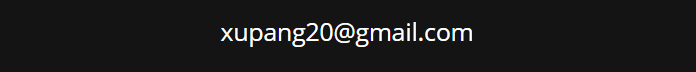
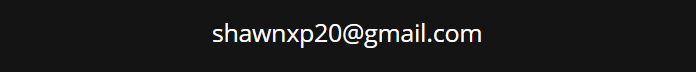
Add files via upload

Changed region(s): [[0.3017, 0.3056, 0.694, 0.6667]]

diff --git a/index.html b/index.html
@@ -598,7 +598,7 @@
           <div class="info-box">
             <i class="bx bx-envelope"></i>
             <h3>Email Me</h3>
-            <!-- <p>xupang20@gmail.com</a></p> -->
+            <!-- <p>shawnxp20@gmail.com</a></p> -->
             <img src="assets/img/email_img.png" class="img-fluid" ALT="email"> 
           </div>
         </div>
@@ -606,7 +606,7 @@
           <div class="info-box">
             <i class="bx bx-phone-call"></i>
             <h3>Call Me</h3>
-            <img src="assets/img/phone_img1.png" class="img-fluid" ALT="phone"> 
+            <img src="assets/img/phone_img.png" class="img-fluid" ALT="phone"> 
           </div>
         </div>
       </div>
